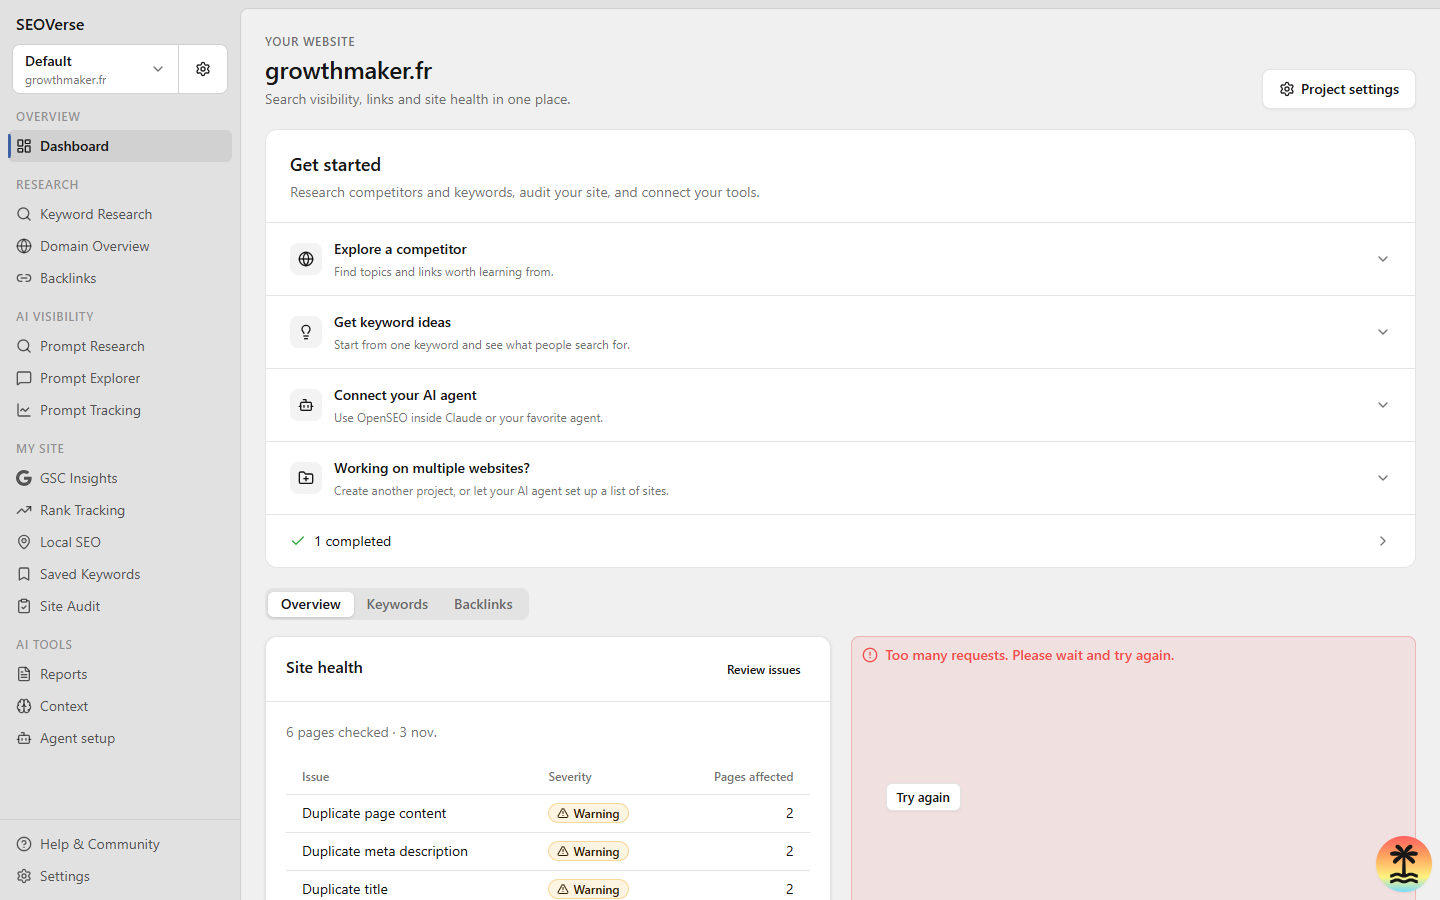
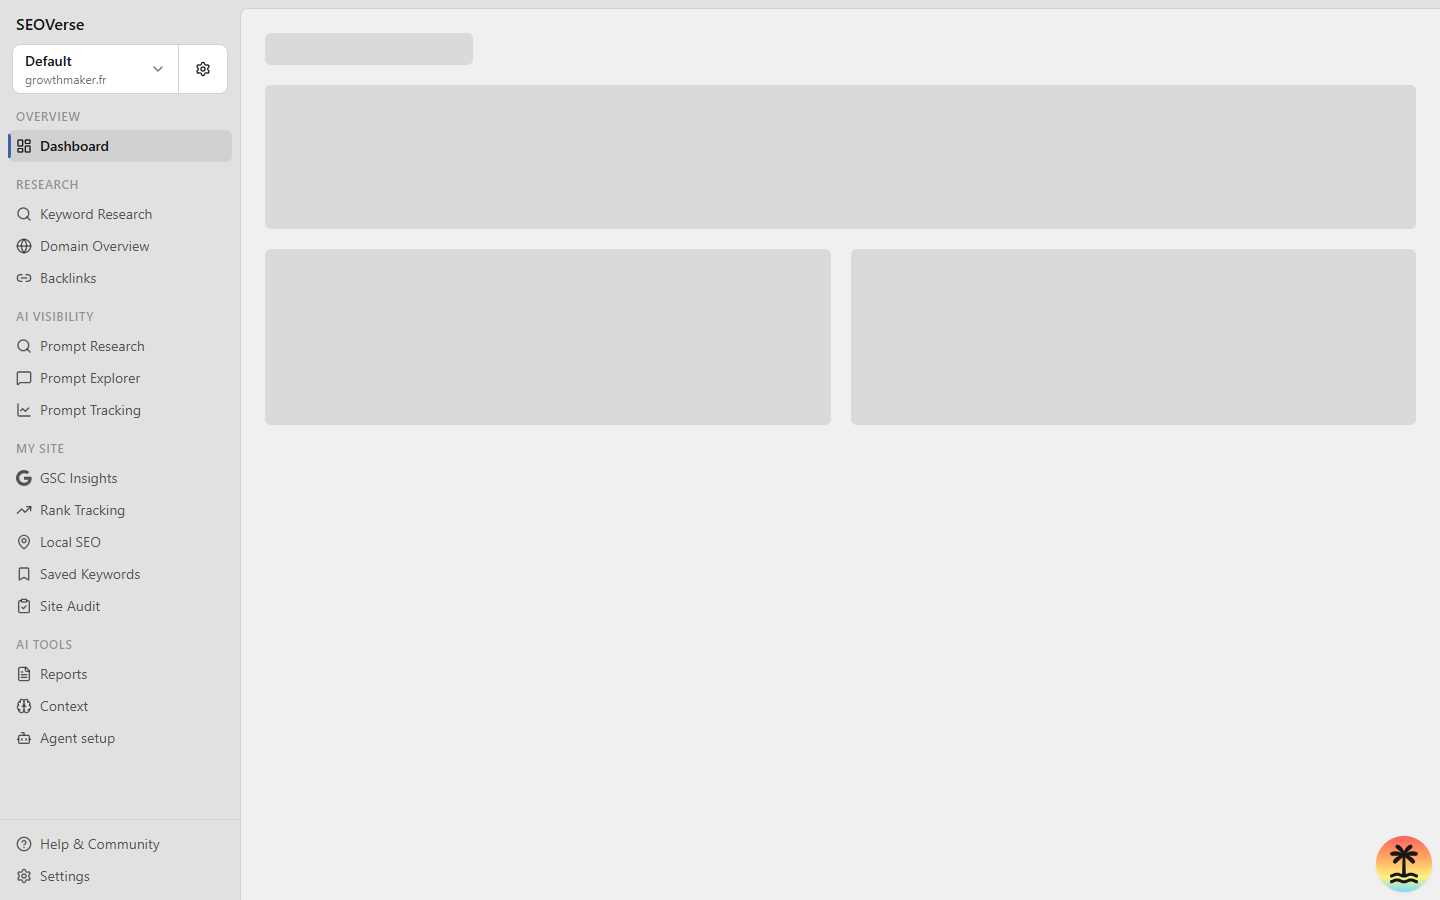
docs: update repository links and documentation for SEOVerse (foverse/seoverse)

diff --git a/README.md b/README.md
@@ -1,98 +1,123 @@
-# SEOVerse
+# 🌌 SEOVerse
 
-> Open-source all-in-one SEO & AI Visibility platform for developers, indie hackers, and AI agents.
+> **The developer-first, open-source alternative to Semrush and Ahrefs.**  
+> Built for engineers, founders, and autonomous AI coding agents.
 
-OpenSEO is an SEO tool for _the people_. If tools like Semrush or Ahrefs are too expensive or bloated, OpenSEO is a pay-as-you-go alternative that you actually control.
+[![License: MIT](https://img.shields.io/badge/License-MIT-blue.svg)](LICENSE)
+[![GitHub Repository](https://img.shields.io/badge/GitHub-foverse%2Fseoverse-blue?logo=github)](https://github.com/foverse/seoverse)
+[![Model Context Protocol](https://img.shields.io/badge/MCP-Compatible-orange)](https://modelcontextprotocol.io)
 
-> All-in-one SEO tool for you and your AI agent.
+**SEOVerse** is an all-in-one SEO and AI Visibility platform that puts you in complete control. Avoid expensive recurring SaaS subscriptions and bloated dashboards—run your SEO suite locally, self-host on your own infrastructure, and let autonomous AI coding agents perform deep keyword discovery, competitor gap analyses, and site audits via the Model Context Protocol (MCP).
 
-Connect with any agent like Claude Code, OpenClaw or Hermes. We have pre-built skills, but you can build your own to tailor OpenSEO to your needs.
+---
 
-<img width="100%" alt="openseo-keyword-research" src="https://github.com/user-attachments/assets/8ebdc439-3e72-41ab-8bde-8cda771ef2e8" />
+## ✨ Features
 
-## Hosted Version
+- **🔍 Keyword Research & Clustering** — Discover search volumes, keyword difficulty, CPC, intent classification, and long-tail query clusters.
+- **🛡 Full-Spectrum Site Audits** — Crawl technical issues, mobile readiness, performance bottlenecks, and canonical tag structure with prioritized fix recommendations.
+- **⚔ Competitor Intelligence** — Map competitors' organic footprints, uncover ranking gaps, and analyze backlinks side-by-side.
+- **🧠 Generative Engine Optimization (GEO)** — Track how often your brand is cited or mentioned across conversational AI models (ChatGPT, Perplexity, Gemini).
+- **📍 Rank Tracking & Local SEO** — Track organic rankings and Google Business Profile local pack visibility by location.
+- **🤖 12 Built-in Agent Skills** — Modular workflows designed for Claude Code, Cursor, Antigravity, OpenClaw, and Hermes.
+- **🔒 Private & Self-Hostable** — Runs locally with SQLite/D1 out of the box, or deploys to Cloudflare Workers or Docker.
 
-Try OpenSEO for free on our website. If you want to support the project, a hosted subscription is $10/month.
+---
 
-[openseo.so](https://openseo.so)
+## 🤖 12 Included AI Agent Skills
 
-### EveryApp
+SEOVerse includes 12 production-ready skills located in [`.agents/skills/`](./.agents/skills) and [`plugins/openseo/skills/`](./plugins/openseo/skills) that AI coding assistants can run autonomously:
 
-Host OpenSEO and other open source apps on our platform EveryApp.
+| Skill | Description |
+| :--- | :--- |
+| **`seo-audit`** | Audit a website, investigate real search opportunities, and deliver a data-backed prioritized report. |
+| **`keyword-research`** | Discover keyword opportunities, analyze SERPs, CPC, difficulty, and search intent. |
+| **`competitor-analysis`** | Analyze a competitor's organic footprint, ranking keywords, content themes, and backlink gaps. |
+| **`keyword-clustering`** | Cluster keyword groups by search intent and map them into content hubs. |
+| **`link-prospecting`** | Find link prospects, discover contact paths, and draft outreach from backlink signals. |
+| **`local-seo`** | Audit Google Business Profiles, compare local competitors, and map local pack rankings. |
+| **`seo-coach`** | Interactive SEO strategy assistant that prioritizes quick wins vs. long-term bets. |
+| **`seo-report`** | Formats and outputs comprehensive executive SEO reports in self-contained markdown or HTML. |
+| **`seo-project-setup`** | Configures site scope, competitor benchmarks, seed keywords, and initial baselines. |
+| **`ai-visibility-audit`** | Audits brand mentions and citations inside ChatGPT, Gemini, and Google AI answers. |
+| **`ai-prompt-research`** | Mines questions and search prompts people ask AI models about your niche. |
+| **`competitive-landscape`** | Macro-level benchmarking comparing organic visibility across an entire industry landscape. |
 
-[Self-host on EveryApp and give it a star →](https://github.com/every-app/every-app)
+---
 
-## Why use OpenSEO?
+## 🚀 Quickstart (Run Fully Locally)
 
-- Best in class MCP and AI Skills.
-- Modern, simple UI.
-  - Focused workflows instead of a bloated, complex SEO suite.
-- No subscriptions.
-  - Bring your own DataForSEO API key and pay only for what you use.
-- Fork and vibe code your own custom tool.
+### Prerequisites
+- Node.js 20+
+- `pnpm` (Corepack or `npm i -g pnpm`)
 
-## Main SEO Workflows
-
-- Keyword research
-- Rank tracking
-- Competitor Insights
-- Backlinks
-- Site Audits
-- AI Visibility
-
-## OpenSEO MCP & Agent Skills
-
-OpenSEO exposes an MCP server so AI agents like Claude Code, OpenClaw, and Hermes can use your SEO data directly. Agent Skills are reusable workflows that guide your agent through SEO tasks using the MCP.
-
-- [Set up ChatGPT web or desktop](https://openseo.so/docs/chatgpt) (works on Free and paid ChatGPT plans)
-- [Set up Codex](https://openseo.so/docs/codex-plugin)
-- [Set up OpenSEO MCP](https://openseo.so/docs/mcp)
-- [Set up OpenSEO Agent Skills](https://openseo.so/docs/skills/setup)
-
-## Self-Hosting
-
-OpenSEO supports two self-hosting paths. Both use email and password accounts: the first visitor creates the admin account, teammates join from invitation links, and MCP clients (Claude, ChatGPT, Codex, Cursor) sign in with the same accounts.
-
-- **Docker** - On your own server or computer, with a prebuilt image that is ready in seconds. Works with Compose-based platforms such as Coolify, Portainer and Dokploy. See [`docs/SELF_HOSTING_DOCKER.md`](./docs/SELF_HOSTING_DOCKER.md).
-  - Running the older single-container image? It keeps getting updates; [move to the new setup](./docs/SELF_HOSTING_DOCKER.md#move-from-the-old-docker-image) when you are ready, data included.
-- **Cloudflare** - No server to run: one deploy command puts OpenSEO on your own Cloudflare account (works on the free plan). See [`docs/SELF_HOSTING_CLOUDFLARE.md`](./docs/SELF_HOSTING_CLOUDFLARE.md).
-
-For security-conscious setups, two advanced options replace the accounts with your own network controls:
-
-- **Cloudflare Access** in front of the Cloudflare deploy, so Cloudflare checks every request before it reaches OpenSEO. See [`docs/SELF_HOSTING_CLOUDFLARE.md`](./docs/SELF_HOSTING_CLOUDFLARE.md).
-- **No sign-in on Docker**, behind Tailscale, a private network or your own authenticating proxy. See [Without sign-in](./docs/SELF_HOSTING_DOCKER.md#without-sign-in-advanced).
-
-Either way, you need a DataForSEO API key to get SEO data. See [`docs/DATAFORSEO_API_KEY.md`](./docs/DATAFORSEO_API_KEY.md).
-
-## Costs
-
-OpenSEO needs a [DataForSEO](https://dataforseo.com/?aff=255379) API key so that you can get SEO data. You pay them directly when self hosting.
-
-See [openseo.so/pricing](https://openseo.so/pricing)
-
-When you self host, your costs will be slightly lower than the estimates on our website. The way the hosted service makes money is by charging 28% extra for every request we make to DataForSEO.
-
-## Local Development
-
-See [`docs/LOCAL_DEVELOPMENT.md`](./docs/LOCAL_DEVELOPMENT.md).
-
-## Contributing
-
-Creating clear issues is the best way to contribute.
-
-Read more here: [`docs/CONTRIBUTING.md`](./docs/CONTRIBUTING.md)
-
-We have this skill: `/simple-issue-description` which helps.
-
-```sh
-npx skills add every-app/open-seo --skill simple-issue-description
+### 1. Clone & Install
+```bash
+git clone https://github.com/foverse/seoverse.git
+cd seoverse
+pnpm install
 ```
 
-## Community
+### 2. Configure Environment
+Create `.env.local`:
+```bash
+cp .env.example .env.local
+```
+Set `AUTH_MODE=local_noauth` for local development without external auth dependencies:
+```env
+AUTH_MODE=local_noauth
+PORT=3001
+DATAFORSEO_API_KEY=your_key_here # Optional: required for live Google SERP and backlink data
+```
 
-Join Discord to chat: [Discord](https://discord.gg/c9uGs3cFXr)
+### 3. Migrate Local Database & Build Widgets
+```bash
+pnpm run db:migrate:local
+pnpm run build:report-widgets
+```
 
-Follow along for updates:
+### 4. Start the Application
+```bash
+pnpm run dev
+```
+Open **`http://localhost:3001`** in your browser.
 
-- Follow on X: https://x.com/bensenescu
-- Sign up for the mailing list on our website: [openseo.so](https://openseo.so)
+---
+
+## 🔌 Connecting with AI Coding Agents (MCP)
+
+SEOVerse includes Model Context Protocol (MCP) configuration in [`.mcp.json`](./.mcp.json).
+
+```json
+{
+  "mcpServers": {
+    "openseo": {
+      "type": "http",
+      "url": "https://app.openseo.so/mcp"
+    }
+  }
+}
+```
+
+Point Cursor, Claude Code, Antigravity, or Codex to this MCP server or run the local API server to allow your agent to execute audits, fetch rankings, and cluster keywords directly from your chat prompt.
+
+---
+
+## 🚢 Self-Hosting
+
+SEOVerse can be deployed in production without subscriptions:
+
+- **Docker Compose** — Run on any VPS (Coolify, Dokploy, Portainer, or pure Docker). See [`docs/SELF_HOSTING_DOCKER.md`](./docs/SELF_HOSTING_DOCKER.md).
+- **Cloudflare Workers** — Zero-maintenance serverless hosting on Cloudflare's free or paid tier. See [`docs/SELF_HOSTING_CLOUDFLARE.md`](./docs/SELF_HOSTING_CLOUDFLARE.md).
+
+---
+
+## 🗄 Legacy Toolkit
+
+The original lightweight offline single-file on-page analyzer and Stageshow demo are preserved in [`legacy-toolkit/`](./legacy-toolkit) and on the `backup/seo-toolkit` git branch.
+
+---
+
+## 📄 License & Attribution
+
+- Released under the [MIT License](LICENSE).
+- Built on top of the open-source [OpenSEO](https://github.com/every-app/open-seo) engine by Every App.

diff --git a/docs/SELF_HOSTING_CLOUDFLARE.md b/docs/SELF_HOSTING_CLOUDFLARE.md
@@ -17,11 +17,11 @@ Related guides:
 
 ## 1) Clone your OpenSEO repo
 
-Fork `every-app/open-seo` on GitHub if you want a repo you control, then clone it locally:
+Fork `foverse/seoverse` on GitHub if you want a repo you control, then clone it locally:
 
 ```bash
 git clone https://github.com/YOUR_GITHUB_USER/open-seo.git
-cd open-seo
+cd seoverse
 corepack enable
 pnpm install
 ```
@@ -29,8 +29,8 @@ pnpm install
 If you do not need a fork, clone the upstream repo instead:
 
 ```bash
-git clone https://github.com/every-app/open-seo.git
-cd open-seo
+git clone https://github.com/foverse/seoverse.git
+cd seoverse
 corepack enable
 pnpm install
 ```

diff --git a/docs/SELF_HOSTING_DOCKER.md b/docs/SELF_HOSTING_DOCKER.md
@@ -9,8 +9,8 @@ Already running the older single-container image (`ghcr.io/every-app/open-seo`)?
 You need Docker Engine or Docker Desktop with Compose, at least 4 GiB of memory for Docker, and a [DataForSEO API key](./DATAFORSEO_API_KEY.md). Every command below runs from the repository root:
 
 ```sh
-git clone https://github.com/every-app/open-seo.git
-cd open-seo
+git clone https://github.com/foverse/seoverse.git
+cd seoverse
 export COMPOSE_FILE=deploy/standalone/compose.yaml
 cp deploy/standalone/.env.example deploy/standalone/.env
 ```

diff --git a/docs/CONTRIBUTING.md b/docs/CONTRIBUTING.md
@@ -31,7 +31,7 @@ For ease of review, I would appreciate if you used the `/simple-issue-descriptio
 Install it with:
 
 ```sh
-npx skills add every-app/open-seo --skill simple-issue-description
+npx skills add foverse/seoverse --skill simple-issue-description
 ```
 
 See [Set up OpenSEO Agent Skills](https://openseo.so/docs/skills/setup) for other install options.

diff --git a/docs/SELF_HOSTING_CLOUDFLARE_LEGACY.md b/docs/SELF_HOSTING_CLOUDFLARE_LEGACY.md
@@ -9,7 +9,7 @@ Your repo was created by the deploy button and `wrangler.jsonc` holds your resou
 One-time setup:
 
 ```bash
-git remote add upstream https://github.com/every-app/open-seo.git
+git remote add upstream https://github.com/foverse/seoverse.git
 ```
 
 Update steps:
